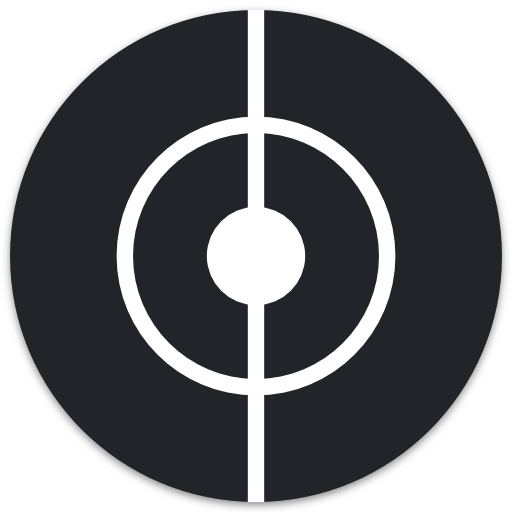
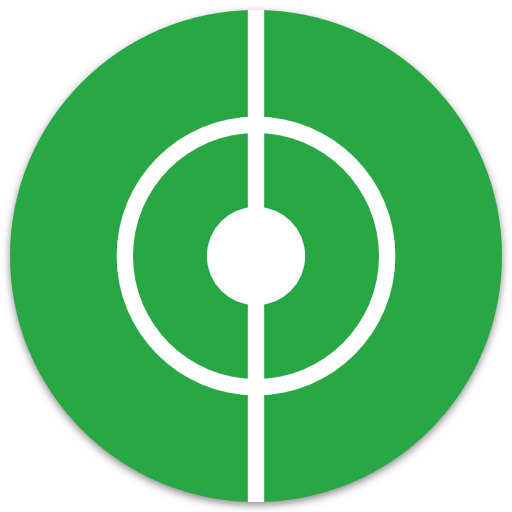
Revert style

diff --git a/src/common/components/AppLogo/index.jsx b/src/common/components/AppLogo/index.jsx
@@ -8,34 +8,10 @@ const AppLogo = () => (
     className={styles.AppLogo}
     viewBox="0 0 30 30"
   >
-    <circle
-      cx="15"
-      cy="15"
-      r="15"
-      fill="#fff"
-    />
-    <circle
-      cx="15"
-      cy="15"
-      r="3"
-      fill="#212529"
-    />
-    <circle
-      cx="15"
-      cy="15"
-      r="8"
-      fill="none"
-      stroke="#212529"
-      strokeWidth="2"
-    />
-    <line
-      x1="15"
-      y1="0"
-      x2="15"
-      y2="30"
-      stroke="#212529"
-      strokeWidth="2"
-    />
+    <circle cx="15" cy="15" r="15" fill="#28a745" />
+    <circle cx="15" cy="15" r="3" fill="#fff" />
+    <circle cx="15" cy="15" r="8" fill="none" stroke="#fff" strokeWidth="2" />
+    <line x1="15" y1="0" x2="15" y2="30" stroke="#fff" strokeWidth="2" />
   </svg>
 );
 

diff --git a/src/common/components/Table/index.jsx b/src/common/components/Table/index.jsx
@@ -96,7 +96,7 @@ class Table extends Component {
                         <polygon
                           points="0,6 4,0 8,6"
                           style={{
-                            fill: '#212529',
+                            fill: '#343a40',
                             stroke: 'none',
                           }}
                         />
@@ -104,7 +104,7 @@ class Table extends Component {
                         <polygon
                           points="0,0 4,6 8,0"
                           style={{
-                            fill: '#212529',
+                            fill: '#343a40',
                             stroke: 'none',
                           }}
                         />

diff --git a/src/common/components/AppNavSection/AppNavSection.scss b/src/common/components/AppNavSection/AppNavSection.scss
@@ -7,6 +7,7 @@
     align-items: center;
     background-color: transparent;
     border: 0;
+    color: #343a40;
     cursor: pointer;
     display: flex;
     font-size: 16px;
@@ -14,8 +15,8 @@
     justify-content: space-between;
     margin: 0;
     min-width: 30px;
-    padding: 0;
     outline: none;
+    padding: 0;
     width: 100%;
 
     svg {
@@ -41,16 +42,14 @@
 
   &__link {
     align-items: center;
-    color: #212529;
+    color: #28a745;
     display: inline-flex;
     font-size: 14px;
     height: 30px;
-    opacity: .5;
     text-decoration: none;
     width: 100%;
 
     &:hover, &--active {
-      color: #212529;
       text-decoration: underline;
     }
   }

diff --git a/src/common/components/AppSidebar/AppSidebar.scss b/src/common/components/AppSidebar/AppSidebar.scss
@@ -9,14 +9,14 @@
     display: flex;
     flex-flow: column;
     height: 100%;
-    right: 0;
     min-width: 290px;
     overflow-y: auto;
     padding: 30px 30px 45px;
     position: fixed;
+    right: 0;
+    top: 0;
     transform: translateX(100%);
     transition: transform .4s;
-    top: 0;
     width: 290px;
     z-index: 2;
 
@@ -26,11 +26,12 @@
 
     @media(min-width: 768px) {
       background-color: rgba(0, 0, 0, 0);
+      border-right: 1px solid #f8f9fa;
       box-shadow: none;
-      right: auto;
       padding-bottom: 30px;
       padding-left: 0;
       padding-top: 105px;
+      right: auto;
       transform: translateX(0);
     }
   }

diff --git a/src/common/components/Fixture/index.jsx b/src/common/components/Fixture/index.jsx
@@ -34,7 +34,7 @@ const Fixture = ({
           : homeTeamScore || '-'
         }
         scoreStyle={{
-          backgroundColor: 'rgba(33, 37, 41, 0.1)',
+          backgroundColor: '#f8f9fa',
         }}
       />
 
@@ -50,7 +50,7 @@ const Fixture = ({
           : awayTeamScore || '-'
         }
         scoreStyle={{
-          backgroundColor: 'rgba(33, 37, 41, 0.1)',
+          backgroundColor: '#f8f9fa',
         }}
       />
     </div>

diff --git a/src/common/components/AppPage/index.jsx b/src/common/components/AppPage/index.jsx
@@ -90,7 +90,7 @@ const AppPage = ({
         },
         {
           name: 'msapplication-TileColor',
-          content: '#b91d47',
+          content: '#00a300',
         },
         {
           name: 'msapplication-TileImage',
@@ -134,7 +134,7 @@ const AppPage = ({
         {
           rel: 'mask-icon',
           href: '/safari-pinned-tab.svg',
-          color: '#212529',
+          color: '#28a745',
         },
       ]}
     />

diff --git a/src/common/components/MatchCenterCompetition/MatchCenterCompetition.scss b/src/common/components/MatchCenterCompetition/MatchCenterCompetition.scss
@@ -1,6 +1,6 @@
 .MatchCenterCompetition {
   &__title {
-    background-color: rgba(33, 37, 41, 0.1);
+    background-color: #f8f9fa;
     font-size: 16px;
     font-weight: 500;
     margin: 0;
@@ -9,7 +9,7 @@
   }
 
   &__link {
-    color: #212529;
+    color: #28a745;
     padding: 1px 2px;
 
     &:hover {

diff --git a/src/common/components/AppInfo/AppInfo.scss b/src/common/components/AppInfo/AppInfo.scss
@@ -3,7 +3,7 @@
   padding-top: 45px;
 
   &__item {
-    border: 1px solid rgba(33, 37, 41, 0.5);
+    background-color: #f8f9fa;
     margin: 0;
     padding: 15px;
 
@@ -13,7 +13,7 @@
   }
 
   &__link {
-    color: #212529;
+    color: #28a745;
 
     &:hover {
       text-decoration: none;

diff --git a/src/common/components/CompetitionPage/CompetitionPage.scss b/src/common/components/CompetitionPage/CompetitionPage.scss
@@ -1,7 +1,7 @@
 .CompetitionInfo {
   &__header {
     align-items: center;
-    background-color: rgba(33, 37, 41, 0.1);
+    background-color: #f8f9fa;
     display: flex;
     flex-flow: row;
     justify-content: space-between;

diff --git a/src/common/components/DateInput/DateInput.scss b/src/common/components/DateInput/DateInput.scss
@@ -9,7 +9,8 @@
 
   &__field {
     background-color: rgba(0, 0, 0, 0);
-    border: 1px solid rgba(33, 37, 41, 0.5);
+    border: 1px solid #343a40;
+    color: #343a40;
     height: 30px;
     outline: none;
     width: 100%;

diff --git a/src/common/components/Dropdown/Dropdown.scss b/src/common/components/Dropdown/Dropdown.scss
@@ -12,7 +12,7 @@
 
   &__field {
     background-color: rgba(0, 0, 0, 0);
-    border: 1px solid rgba(33, 37, 41, 0.5);
+    border: 1px solid #343a40;
     height: 30px;
     min-width: 100%;
     outline: none;

diff --git a/src/common/components/FixturesList/FixturesList.scss b/src/common/components/FixturesList/FixturesList.scss
@@ -4,7 +4,7 @@
   padding: 0;
 
   &__item {
-    border-bottom: 1px solid rgba(33, 37, 41, 0.1);
+    border-bottom: 1px solid #f8f9fa;
     padding: 15px;
 
     @media (min-width: 768px) {
